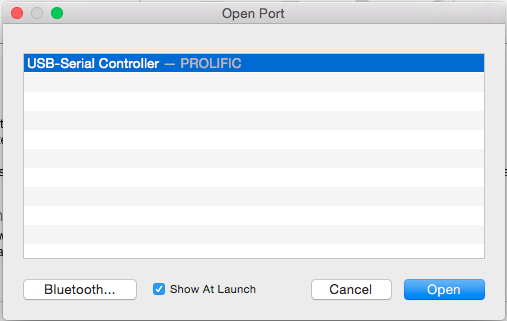
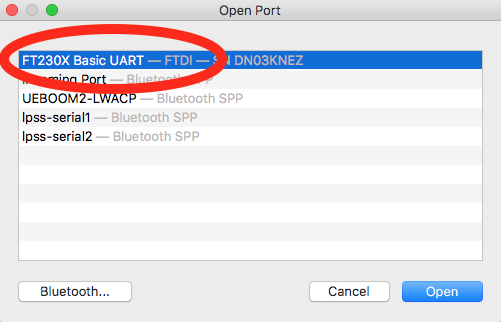
updating documentation for FTDI chip

diff --git a/Courseware/01.3_Connecting_Serial_and_Wifi_Setup/README.md b/Courseware/01.3_Connecting_Serial_and_Wifi_Setup/README.md
@@ -16,10 +16,11 @@ Your SD Card will go into the SD slot in the BACK of the Pi. Make sure to insert
 <br/>**BE VERY, VERY CAREFUL WITH THE MICRO-USB CONNECTION - IT HAS MINIMAL STRAIN RELIEF AND CAN BE PULLED OFF THE BOARD IF YOU ARE CARELESS**
 8.  Plug the power cord into an AC outlet, then plug the power adapter into the LAMPI.  The Pi should have a steady red light on.
 9.  Plug the USB part of the Serial Cable into your USB port of your computer.
-10. Install any necessary software or drivers specific to you OS as documented in [using a console cable](https://learn.adafruit.com/downloads/pdf/adafruits-raspberry-pi-lesson-5-using-a-console-cable.pdf)
-11. Then in your terminal emulator, connect to your Pi. 
-![Connected Pi Serial Terminal] (Images/Connect_Pi_Serial_Terminal.png)
-![Terminal Settings] (Images/Terminal_Settings.png)
+10. The LAMPI Interface Board has an FTDI Serial-USB chip (an FTDI FT230X) to simplify connecting your computer to the serial port on the Raspberry Pi. Install any needed Virtual COM Port Drivers for the FTDI USB-Serial chip [FTDI VPC Drivers](http://www.ftdichip.com/Drivers/VCP.htm) needed for your OS.
+10. Install any necessary terminal emulator software needed for your OS (see [Serial Terminal Basics](https://learn.sparkfun.com/tutorials/terminal-basics/all) which has helpful basic information as well as links to several popular terminal emulator applications for various Operating Systems; note: the baud rate and other settiings in that link are focused on connecting to Arduino devices, which are slower and have a much lower baud rate - use the settings below for the Raspberry Pi).
+11. Then in your terminal emulator, connect to your Pi.  The following images are from the [Serial app for OSX](https://www.decisivetactics.com/products/serial/), a non-free application.
+![Connected Pi Serial Terminal](Images/Connect_Pi_Serial_Terminal.png)
+![Terminal Settings](Images/Terminal_Settings.png)
 The Line Settings within Terminal Settings should be:
 	* Baud Rate: 115200
 	* Data Bits: 8
@@ -27,7 +28,7 @@ The Line Settings within Terminal Settings should be:
 	* Stop: 1
 12. Log into your Raspberry Pi:
 	* login: ``pi``
-	* password: `r`aspberry``
+	* password: ``raspberry``
 13. Run `sudo raspi-config` to perform initial setup.
 14. Highlight `1 Expand Filesystem` and press enter. Follow the prompts.
 15. Highlight `2 Change User Password` and choose a new password.

diff --git a/Courseware/01.8_Assignment/README.md b/Courseware/01.8_Assignment/README.md
@@ -29,6 +29,7 @@ Before the start of class next week, one member of each pair should send an emai
 * Subject:  Assignment 1
 * Names of the members of pair
 * A short (a few sentences) write up from each member of the pair summarizing what they learned completing the assignment, and one thing that surprised them (good, bad, or just surprising).
+* How many hours total you and your partner spent on this week's assignment, rounded to the nearest hour.
 * Attach the file containing the required Python script
 * Attach a short (5-10 second) video demonstrating the required lamp behaviors.
 
